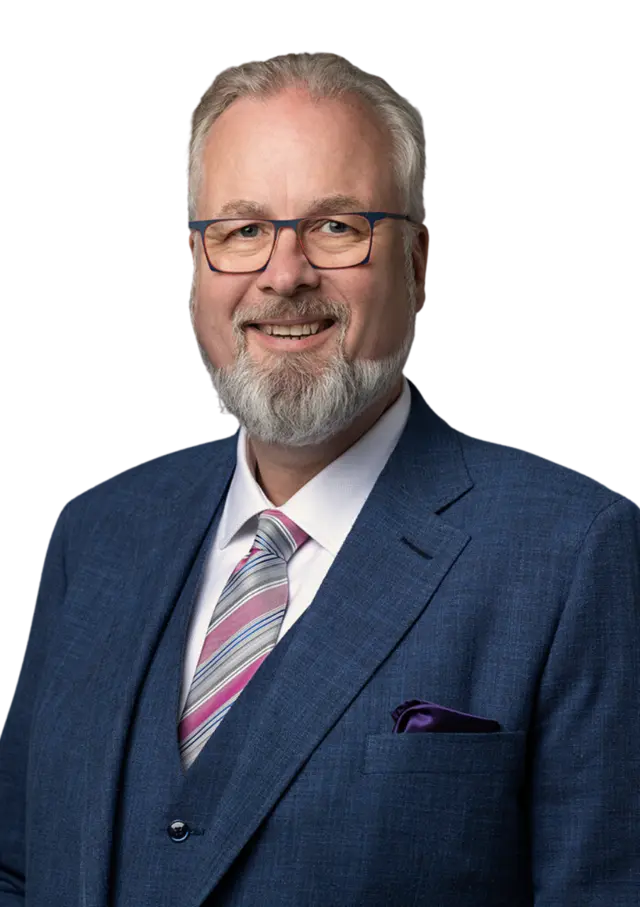
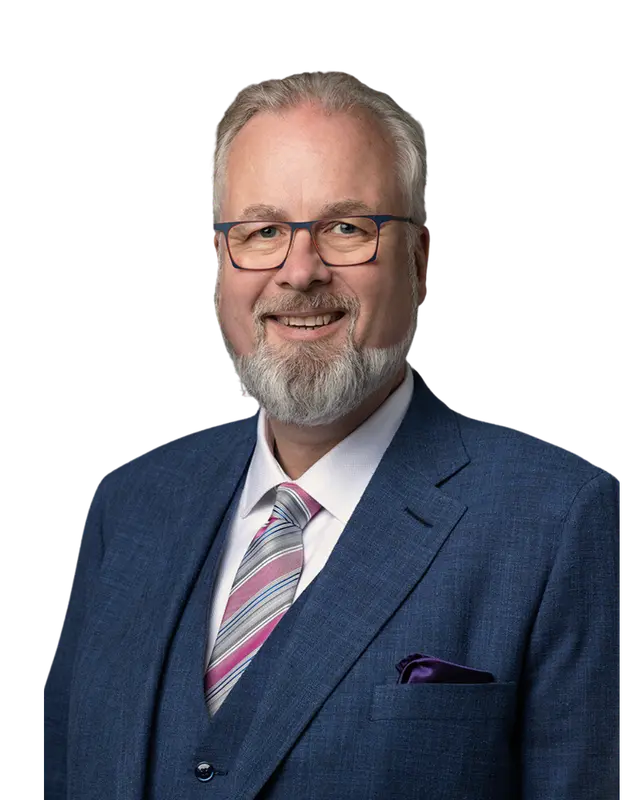
Alle Spezialisten-Fotos freigestellt (einheitlicher Hintergrund); grüne Buttons mit weißer Schrift, Grün unverändert
Claude-Session: https://claude.ai/code/session_01To8PypW9uZhfjcxqBRQiJB

diff --git a/_data/site.js b/_data/site.js
@@ -16,7 +16,7 @@ const icons = {
 const team = {
   lohne: { name: 'Jonathan Lohne', role: 'Netzwerk Manager', url: '/ruhestandsplanung', img: '/assets/img/team/jonathan-lohne.webp' },
   hoffmann: { name: 'Jana Hoffmann', role: 'Spezialistin Finanzierung', url: '/finanzierung', img: '/assets/img/team/jana-hoffmann.webp' },
-  moews: { name: 'Mathias Moews', role: 'Dipl.-Betriebswirt | Finanzierungen', url: '/finanzierung', img: '/assets/img/team/mathias-moews.webp', pos: '48% 30%' },
+  moews: { name: 'Mathias Moews', role: 'Dipl.-Betriebswirt | Finanzierungen', url: '/finanzierung', img: '/assets/img/team/mathias-moews.webp' },
   buck: { name: 'Dr. Michael Buck', role: 'Kranken- & Pflegeversicherung', url: '/kranken-pflege', img: '/assets/img/team/michael-buck.webp' },
   hendelkes: { name: 'Joachim Hendelkes', role: 'Dipl.-Kfm. | Finanzanalysen', url: '/finanzanalysen', img: '/assets/img/team/joachim-hendelkes.webp' },
   schneider: { name: 'Christian H. Schneider', role: 'Dipl.-Kfm. | Kapitalanlage Immobilien', url: '/kapitalanlage-immobilie', img: '/assets/img/team/christian-schneider.webp' },
